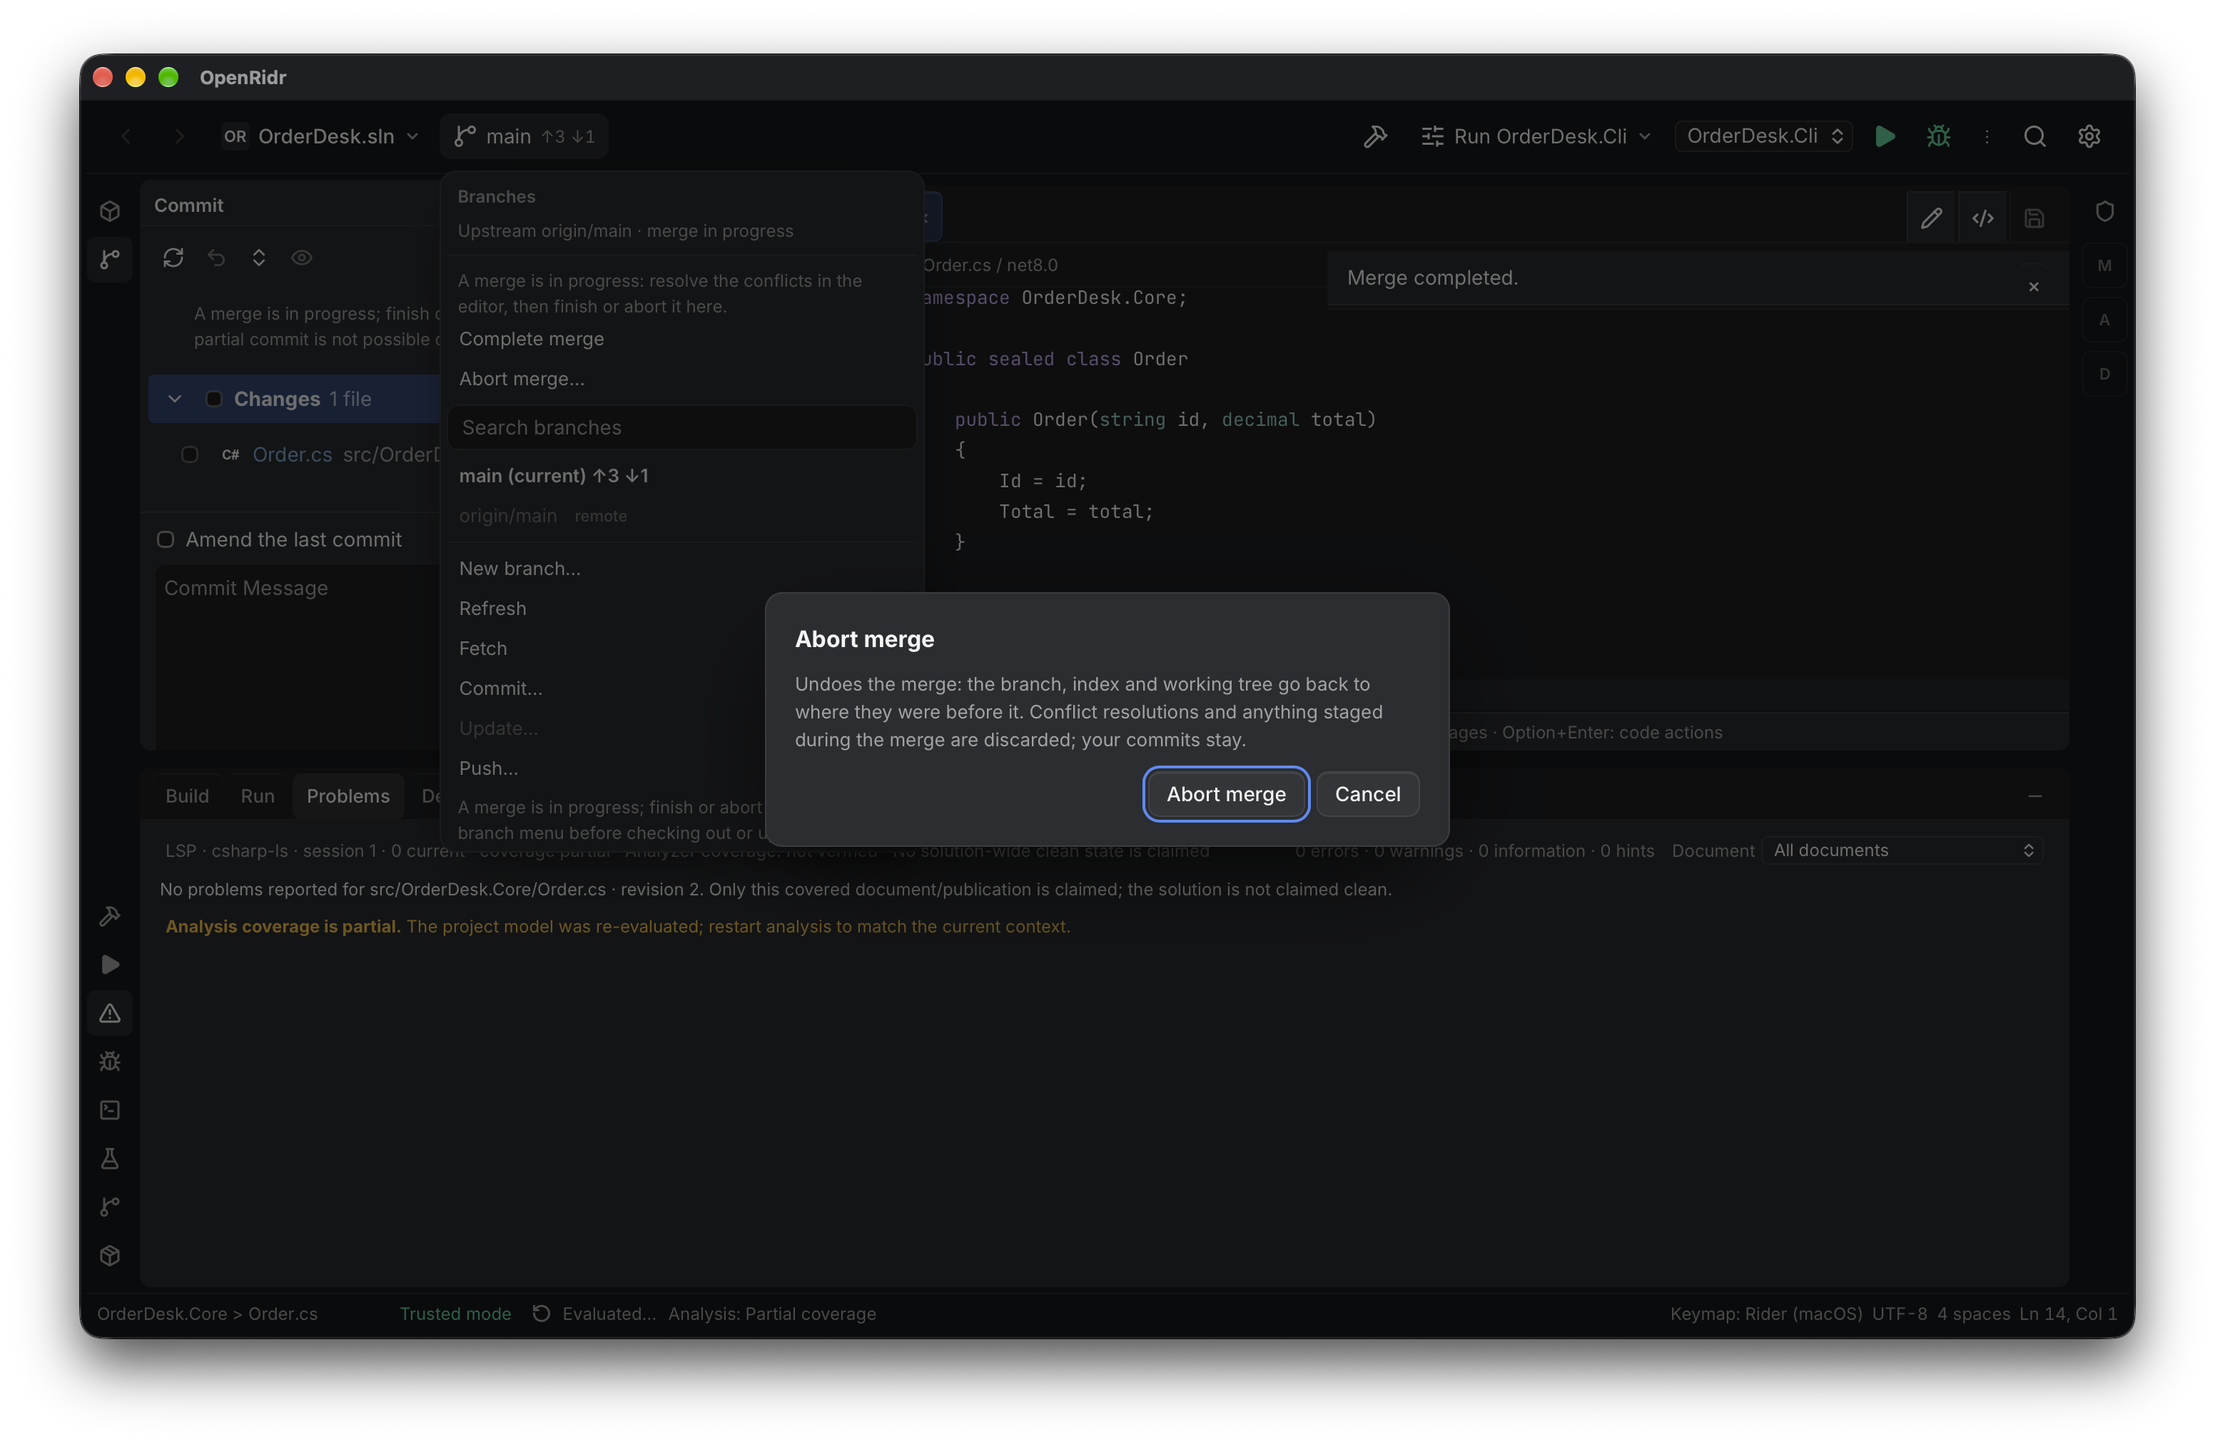
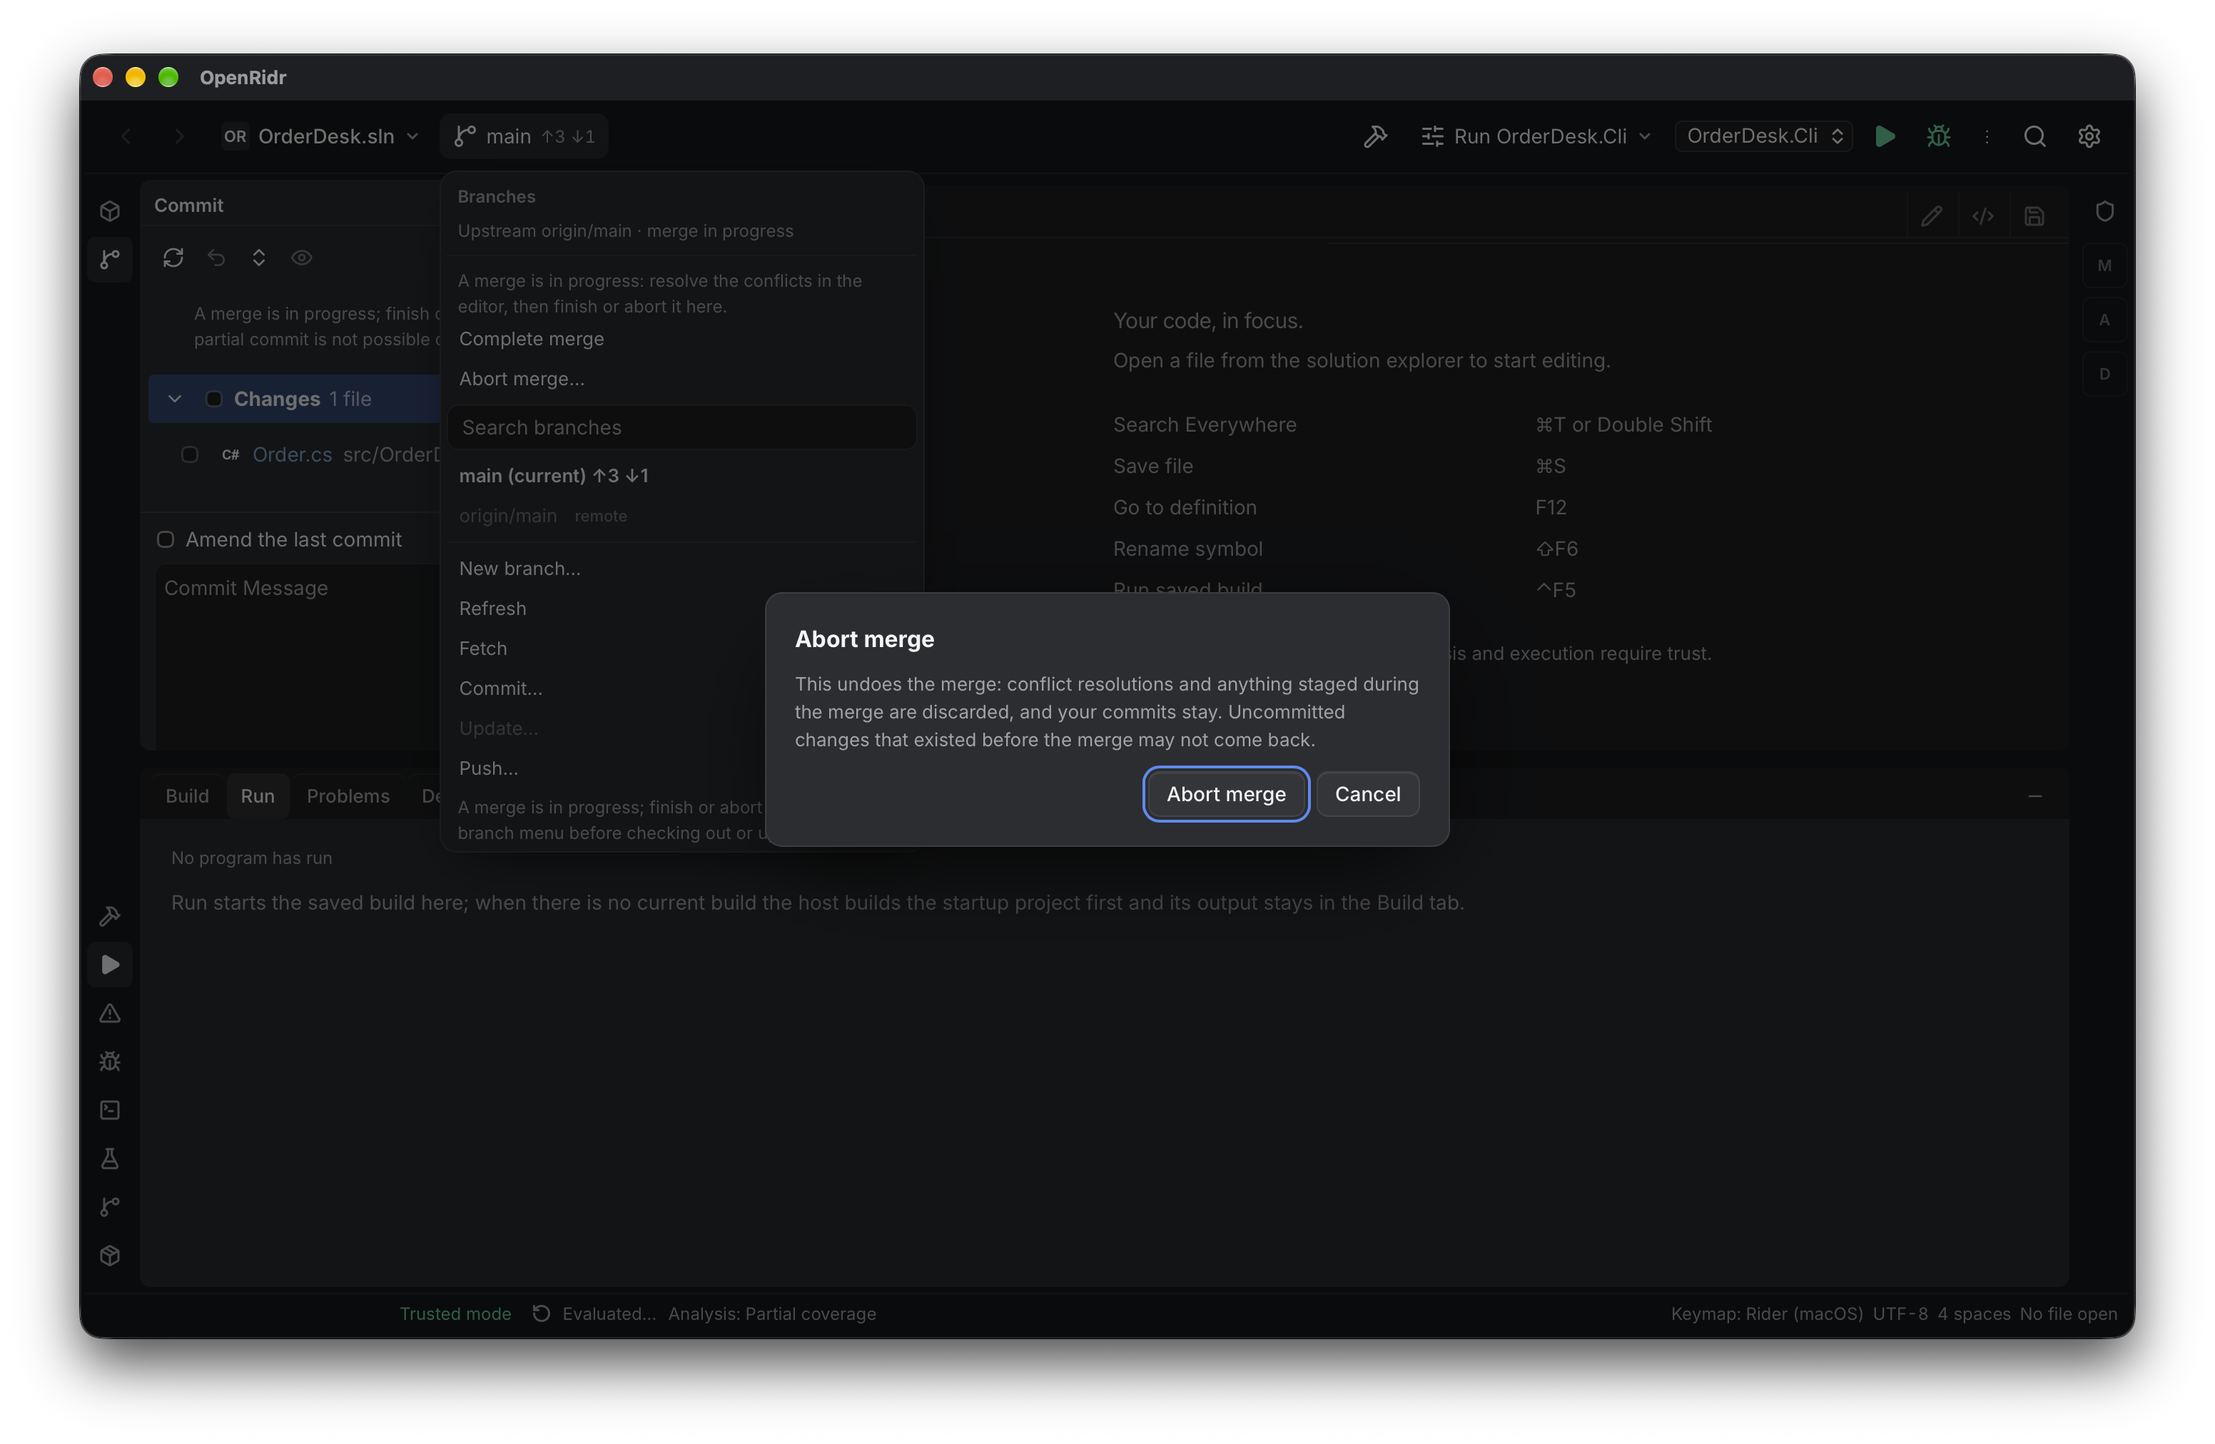
fix(git): the abort dialog stops promising a full restore (#114)

diff --git a/src/git.tsx b/src/git.tsx
@@ -759,9 +759,9 @@ export function BranchWidget({
           <div className="modal" role="dialog" aria-modal="true" aria-labelledby="merge-abort-title" data-testid="merge-abort-dialog" onKeyDown={dialogKeyDown}>
             <h2 id="merge-abort-title">Abort merge</h2>
             <p className="hint">
-              Undoes the merge: the branch, index and working tree go back to the state before the
-              merge. Conflict resolutions and anything staged during the merge are discarded; your
-              commits stay. Uncommitted changes that existed before the merge may not come back.
+              This undoes the merge: conflict resolutions and anything staged during the merge are
+              discarded, and your commits stay. Uncommitted changes that existed before the merge
+              may not come back.
             </p>
             {dialogError && (
               <p className="error" role="alert" data-testid="merge-abort-error">{dialogError}</p>

diff --git a/docs/evidence/git-merge-in-progress.md b/docs/evidence/git-merge-in-progress.md
@@ -23,7 +23,7 @@ UI dirigida **somente** no app Tauri real via `agent-desktop` (sem navegador, se
 | S2 | Complete merge sem resolver recusa e não escreve nada | UI: `Complete merge refused: 1 file still contains conflict markers (src/OrderDesk.Core/Order.cs). Resolve it in the editor first.` Disco: `git status --porcelain` continua `UU src/OrderDesk.Core/Order.cs`; `.git/MERGE_HEAD` presente; `git rev-parse HEAD` → `5d1c0c7` (nenhum commit criado); `git ls-files -u` continua com as três entradas unmerged | **passou** |
 | S3 | Resolver no editor do app e concluir cria o merge commit | Editor do app: `cmd+a` + digitação do conteúdo resolvido + `cmd+s`; disco: arquivo sem marcador, `Total { get; private set; }`. UI depois de `Complete merge`: toast `Merge completed.`, bloco do merge desaparece, barra em `main ↑2`. Disco: `git log -1 --pretty='%h %s'` → `eebc2ea Merge remote-tracking branch 'origin/main'`; `git log -1 --format=%p` → `5d1c0c7… b51317f…` (commit local e commit da contraparte como parents); `.git/MERGE_HEAD` **ausente**; `git status --porcelain` → vazio; `git status -sb` → `## main...origin/main [ahead 2]` (o merge não foi empurrado) | **passou** |
 | S4 | Commit tool durante o merge aponta o caminho e bloqueia | UI: nota `A merge is in progress; finish or abort it from the branch menu. A partial commit is not possible during a merge.`, `0 of 1 selected`, checkbox do `Order.cs` desabilitado, botão `Commit` desabilitado; o editor mostra `<<<<<<< HEAD` no arquivo | **passou** |
-| S5 | Abort merge… pede confirmação e volta ao estado anterior | UI: modal `Abort merge` com "Undoes the merge: the branch, index and working tree go back to where they were before it. Conflict resolutions and anything staged during the merge are discarded; your commits stay." e `Abort merge`/`Cancel`. Depois de confirmar: toast `Merge aborted; the branch, index and working tree are back to where they were before the merge.`, `Update…` habilitado de novo. Disco: `.git/MERGE_HEAD` **ausente**; `git rev-parse HEAD` → `03a3f95` (igual ao de antes do Update); `git status --porcelain` → vazio; `grep Currency src/OrderDesk.Core/Order.cs` → `public string Currency { get; } = "BRL";` (conteúdo local, nenhum marcador) | **passou** |
+| S5 | Abort merge… pede confirmação e desfaz o merge | UI: modal `Abort merge` com "This undoes the merge: conflict resolutions and anything staged during the merge are discarded, and your commits stay. Uncommitted changes that existed before the merge may not come back." e `Abort merge`/`Cancel`. Depois de confirmar: toast `Merge aborted; the merge is undone and your commits stay.`, `Update…` habilitado de novo. Disco: `.git/MERGE_HEAD` **ausente**; `git rev-parse HEAD` → `03a3f95` (igual ao de antes do Update); `git status --porcelain` → vazio; `grep Currency src/OrderDesk.Core/Order.cs` → `public string Currency { get; } = "BRL";` (conteúdo local, nenhum marcador) | **passou** |
 
 Nenhuma mensagem mostrada na tela continha `hint:` nem conselho de editar `pull.rebase`/`pull.ff`.
 
@@ -43,9 +43,20 @@ Depois disso o merge foi abortado (`git merge --abort`) e o clone voltou a `03a3
 
 ## Host tests (não é prova de UI)
 
-- `cargo test -p openridr-host --lib -- git::tests` → **60 passed**. Os 7 casos novos: abort restaura `HEAD`/contagem/árvore/bytes locais e apaga `MERGE_HEAD`; abort recusa sem merge e com rebase em andamento; concluir stageia só os caminhos conflitados e cria merge de dois parents **sem** arrastar edição alheia (`git show HEAD:b.txt` mantém o conteúdo antigo e `status --porcelain` mostra `M b.txt`); concluir recusa com marcador remanescente (nada staged, `HEAD` igual, merge intacto); concluir recusa sem merge; `git.commit` recusa durante merge sem criar commit; Update conflitante deixa `MERGE_HEAD`/os dois commits/`status.operation == Some("merge")` e `merge_continue` depois fecha o merge; Update conflitante + `merge_abort` volta ao estado pré-merge.
+- `cargo test -p openridr-host --lib -- git::tests` → **63 passed**. Os 10 casos novos: abort restaura `HEAD`/contagem/árvore/bytes locais e apaga `MERGE_HEAD`; abort recusa sem merge e com rebase em andamento; concluir stageia só os caminhos conflitados e cria merge de dois parents **sem** arrastar edição alheia (`git show HEAD:b.txt` mantém o conteúdo antigo e `status --porcelain` mostra `M b.txt`); concluir recusa com marcador remanescente (nada staged, `HEAD` igual, merge intacto); concluir recusa com marcador **staged** e removido do worktree (o check do index pega); concluir stageia o nome conflitado literalmente (`a*.txt` não arrasta `a-other.txt`); concluir recusa quando o check de marcador é truncado (`merge_continue_with(root, 8)`); concluir recusa sem merge; `git.commit` recusa durante merge sem criar commit; Update conflitante deixa `MERGE_HEAD`/os dois commits/`status.operation == Some("merge")` e `merge_continue` depois fecha o merge; Update conflitante + `merge_abort` volta ao estado pré-merge.
 - Bateria completa: `bun run check` ok; `bun test tests/unit` 89 passed; `cargo test -p openridr-host` **108 passed** no binário de integração e 394 na lib; `cargo clippy --workspace --all-targets -- -D warnings` ok; `cargo fmt --all --check` e `cargo fmt --manifest-path src-tauri/Cargo.toml --check` ok.
-- Falha-antes: os métodos novos não existiam; o que prova a mudança de comportamento é o teste do Update, que reprova no código anterior (`MERGE_HEAD` ausente depois do pull e mensagem "aborted the merge"), e o de `git.commit`, que no código anterior devolvia o `git_failed` cru do Git em vez de `git_operation_in_progress`.
+- Falha-antes: os métodos novos não existiam; o que prova a mudança de comportamento é o teste do Update, que reprova no código anterior (`MERGE_HEAD` ausente depois do pull e mensagem "aborted the merge"), e o de `git.commit`, que no código anterior devolvia o `git_failed` cru do Git em vez de `git_operation_in_progress`. Dos três casos que nasceram da revisão, o falha-antes foi medido com as correções revertidas: os três reprovam (check só do worktree, sem `--literal-pathspecs`, sem recusa por truncamento) e passam com elas.
+
+## Correções da revisão independente (terra, thinking medium)
+
+Primeira rodada: 2 altos e 2 médios, todos reais e corrigidos em `16ac7fd`.
+
+- **Alto — a guarda de marcador olhava só o worktree.** `git diff --check HEAD` compara `HEAD` com a árvore, mas o commit usa o index: marcador staged e depois removido da árvore passaria e o merge commit levaria `<<<<<<<`. Agora roda também `git diff --check --cached HEAD` e une os caminhos; teste `merge_continue_refuses_markers_staged_and_removed_from_the_worktree`.
+- **Alto — nome conflitado virava pathspec.** `git add -u -- <caminho>` trata `*`, `?` e `[` como glob: um conflitado `a*.txt` arrastaria `a-other.txt` para o merge commit. Agora `--literal-pathspecs` (o mesmo padrão de `git.ignored`); teste `merge_continue_stages_the_conflicted_name_literally`.
+- **Médio — o abort prometia restauração que o Git não garante.** `merge --abort` pode não reconstruir mudanças não commitadas que existiam antes do merge (merge iniciado fora do app). O modal agora diz o que faz e o que descarta, sem prometer o estado anterior, e avisa que mudanças não commitadas anteriores ao merge podem não voltar; o toast promete só o que é certo (`the merge is undone and your commits stay`).
+- **Médio — saída truncada do check era tratada como "sem marcador".** Agora a chamada recusa quando a captura é cortada (o teto subiu para 1 MiB, rede de segurança) e manda commitar pelo terminal; teste `merge_continue_refuses_when_the_marker_check_is_cut_off` com `merge_continue_with(root, 8)`.
+
+Re-check (mesmo modelo, escopo = `16ac7fd` + os 4 achados): 3 `CLOSED`; o médio do abort voltou `NOT CLOSED` porque o modal ainda abria com "the branch, index and working tree go back to the state before the merge" antes do aviso, e um `LOW` (a nota de implementação citava a mensagem antiga). Os dois foram corrigidos: o modal perdeu a promessa e a nota cita a mensagem atual. A captura 06/07 foi refeita **depois** dessa correção, com o bundle reconstruído.
 
 ## Capturas (`docs/evidence/git-merge-in-progress/`)
 
@@ -56,8 +67,8 @@ Depois disso o merge foi abortado (`git merge --abort`) e o clone voltou a `03a3
 | [03-resolved-in-editor.png](git-merge-in-progress/03-resolved-in-editor.png) | O arquivo resolvido no editor do app, sem marcadores, antes de concluir. |
 | [04-merge-completed.png](git-merge-in-progress/04-merge-completed.png) | `Merge completed.`, bloco do merge fora do menu, barra em `main ↑2`, árvore sem o conflito. |
 | [05-commit-tool-during-merge.png](git-merge-in-progress/05-commit-tool-during-merge.png) | Commit tool com a nota do merge, `0 of 1 selected`, checkbox do conflitado e `Commit` desabilitados, marcadores no editor. |
-| [06-abort-confirmation.png](git-merge-in-progress/06-abort-confirmation.png) | Modal de confirmação do abort com o que volta e o que é descartado. |
-| [07-merge-aborted.png](git-merge-in-progress/07-merge-aborted.png) | `Merge aborted; the branch, index and working tree are back to where they were before the merge.`, `Update…` habilitado, árvore limpa. |
+| [06-abort-confirmation.png](git-merge-in-progress/06-abort-confirmation.png) | Modal de confirmação do abort: o que é descartado, que os commits ficam e que mudanças não commitadas anteriores ao merge podem não voltar. |
+| [07-merge-aborted.png](git-merge-in-progress/07-merge-aborted.png) | `Merge aborted; the merge is undone and your commits stay.`, `Update…` habilitado, árvore limpa. |
 
 ## Não verificado
 

diff --git a/docs/implementation-notes.md b/docs/implementation-notes.md
@@ -1678,7 +1678,7 @@ Revisão em subagente único (Pi `openai-codex/gpt-6.1-terra`, thinking medium) 
 - **Não verificado:** app Tauri real (sem superfície de UI; o caminho de install real já tem evidência na frente de tools), Playwright, Windows e macOS Intel.
 ## Merge em andamento: concluir ou abortar pela UI (2026-11-07, #114; tickets #154, #155, #156)
 
-- **Contrato — `git.mergeAbort` (#154).** Trust-gated, sem parâmetros, devolve a mesma `Operation` das outras ações (com o `status` relido). Recusa com `invalid_state` quando não há merge em andamento (`no merge is in progress`) e quando a operação é outra (`only aborts a merge`; rebase/cherry-pick/revert ficam para o terminal). Roda `git merge --abort`; sucesso devolve `Merge aborted; the branch, index and working tree are back to where they were before the merge.` e falha mantém a cauda do stderr com `Abort failed; the merge is still in progress. …`.
+- **Contrato — `git.mergeAbort` (#154).** Trust-gated, sem parâmetros, devolve a mesma `Operation` das outras ações (com o `status` relido). Recusa com `invalid_state` quando não há merge em andamento (`no merge is in progress`) e quando a operação é outra (`only aborts a merge`; rebase/cherry-pick/revert ficam para o terminal). Roda `git merge --abort`; sucesso devolve `Merge aborted; the merge is undone and your commits stay.` e falha mantém a cauda do stderr com `Abort failed; the merge is still in progress. …`.
 - **Contrato — `git.mergeContinue` (#155).** Trust-gated, sem parâmetros. Exige `status.operation == "merge"` (mesmas duas recusas, com `Complete merge refused:`). Antes de escrever, roda `git diff --check --no-ext-diff HEAD` **e** `git diff --check --no-ext-diff --cached HEAD` (teto de 1 MiB cada, `spawn_bounded`) e recusa com `invalid_state` listando até 20 caminhos quando há `leftover conflict marker` (o Git pega `<<<<<<<`, `=======` e `>>>>>>>`; erros de whitespace do mesmo comando são ignorados). Os dois checks são necessários porque o commit usa o index: marcador staged e removido do worktree só aparece no `--cached`, e caminho unmerged só aparece no do worktree. Saída truncada **recusa** (`the conflict-marker check was cut off…`), nunca aprova por falta de prova. Depois roda `git --literal-pathspecs add -u -- <caminhos que estavam conflitados>` (nada de `add -u` global; a lista vazia pula o add; o flag literal impede que `a*.txt` case com `a-other.txt`), confere `git ls-files -u` (recusa se sobrou algo unmerged) e cria o commit com `git commit --no-edit`, usando a `MERGE_MSG` preparada. Identidade ausente vira mensagem do app (`Complete merge needs a Git identity…`) e o merge continua; qualquer outra falha mantém a cauda do stderr. Sucesso: `Merge completed.` Nada é empurrado.
 - **`git.commit` bloqueado em operação em andamento (#155).** Antes do intent-to-add, o host lê o status e recusa com `git_operation_in_progress`: merge aponta o menu de branches, as outras operações apontam o terminal, e a mensagem diz que commit parcial não é possível. Motivo: o Git responde `fatal: cannot do a partial commit during a merge`, e o arquivo conflitado continua `UU` até o `git add`.
 - **Update deixa de abortar o conflito (#156).** `pull_with` não resolve mais o commit do upstream para provar posse nem roda `git merge --abort`; `merge_head` e `abort_conflicting_merge` foram removidos. Depois de um merge que falhou, `update_failure` relê o status e, com merge em andamento, devolve `Update stopped: <N> file(s) changed on both sides (<paths, até 20>). The merge is still in progress: resolve the conflicted files in the editor, then finish or abort it from the branch menu.` Operação diferente de merge em andamento vira `Update stopped: a <op> is in progress. Finish or abort it in a terminal before updating again.` A checagem de identidade foi extraída para `missing_identity` e é reusada pela conclusão do merge. Um merge já em andamento continua recusado antes de qualquer comando pelo `require_clean` (`git_operation_in_progress`).
